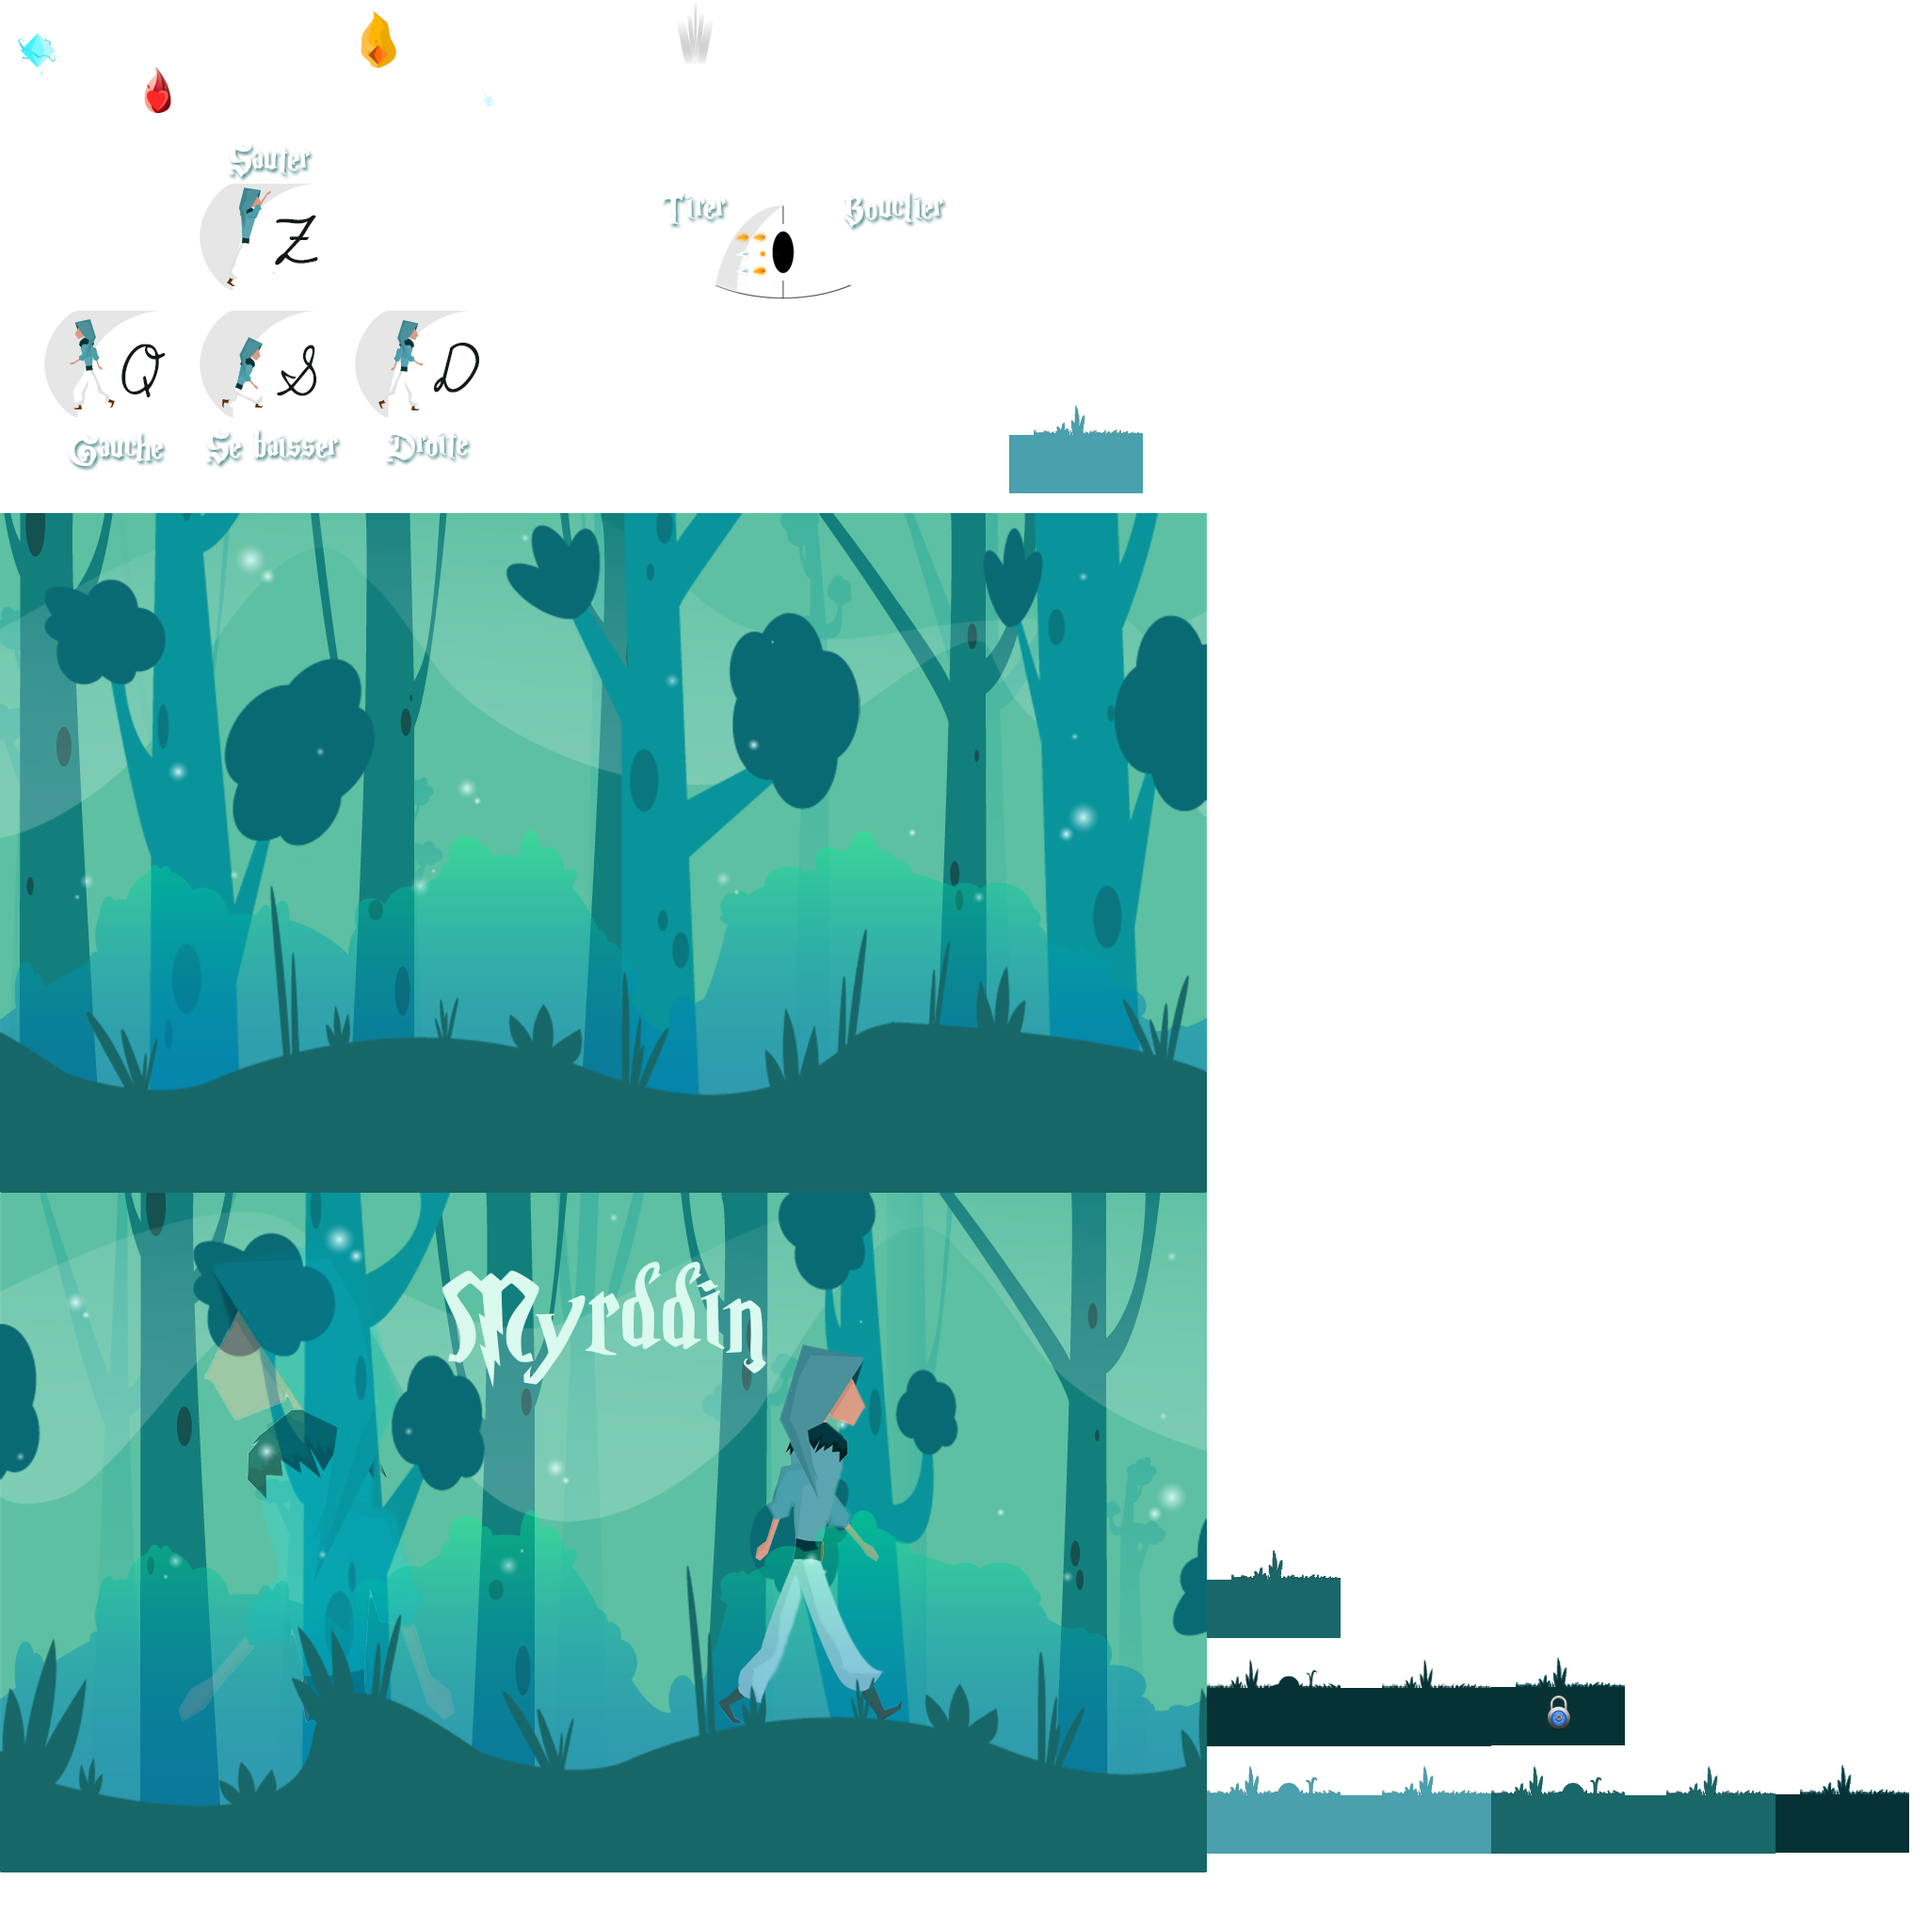
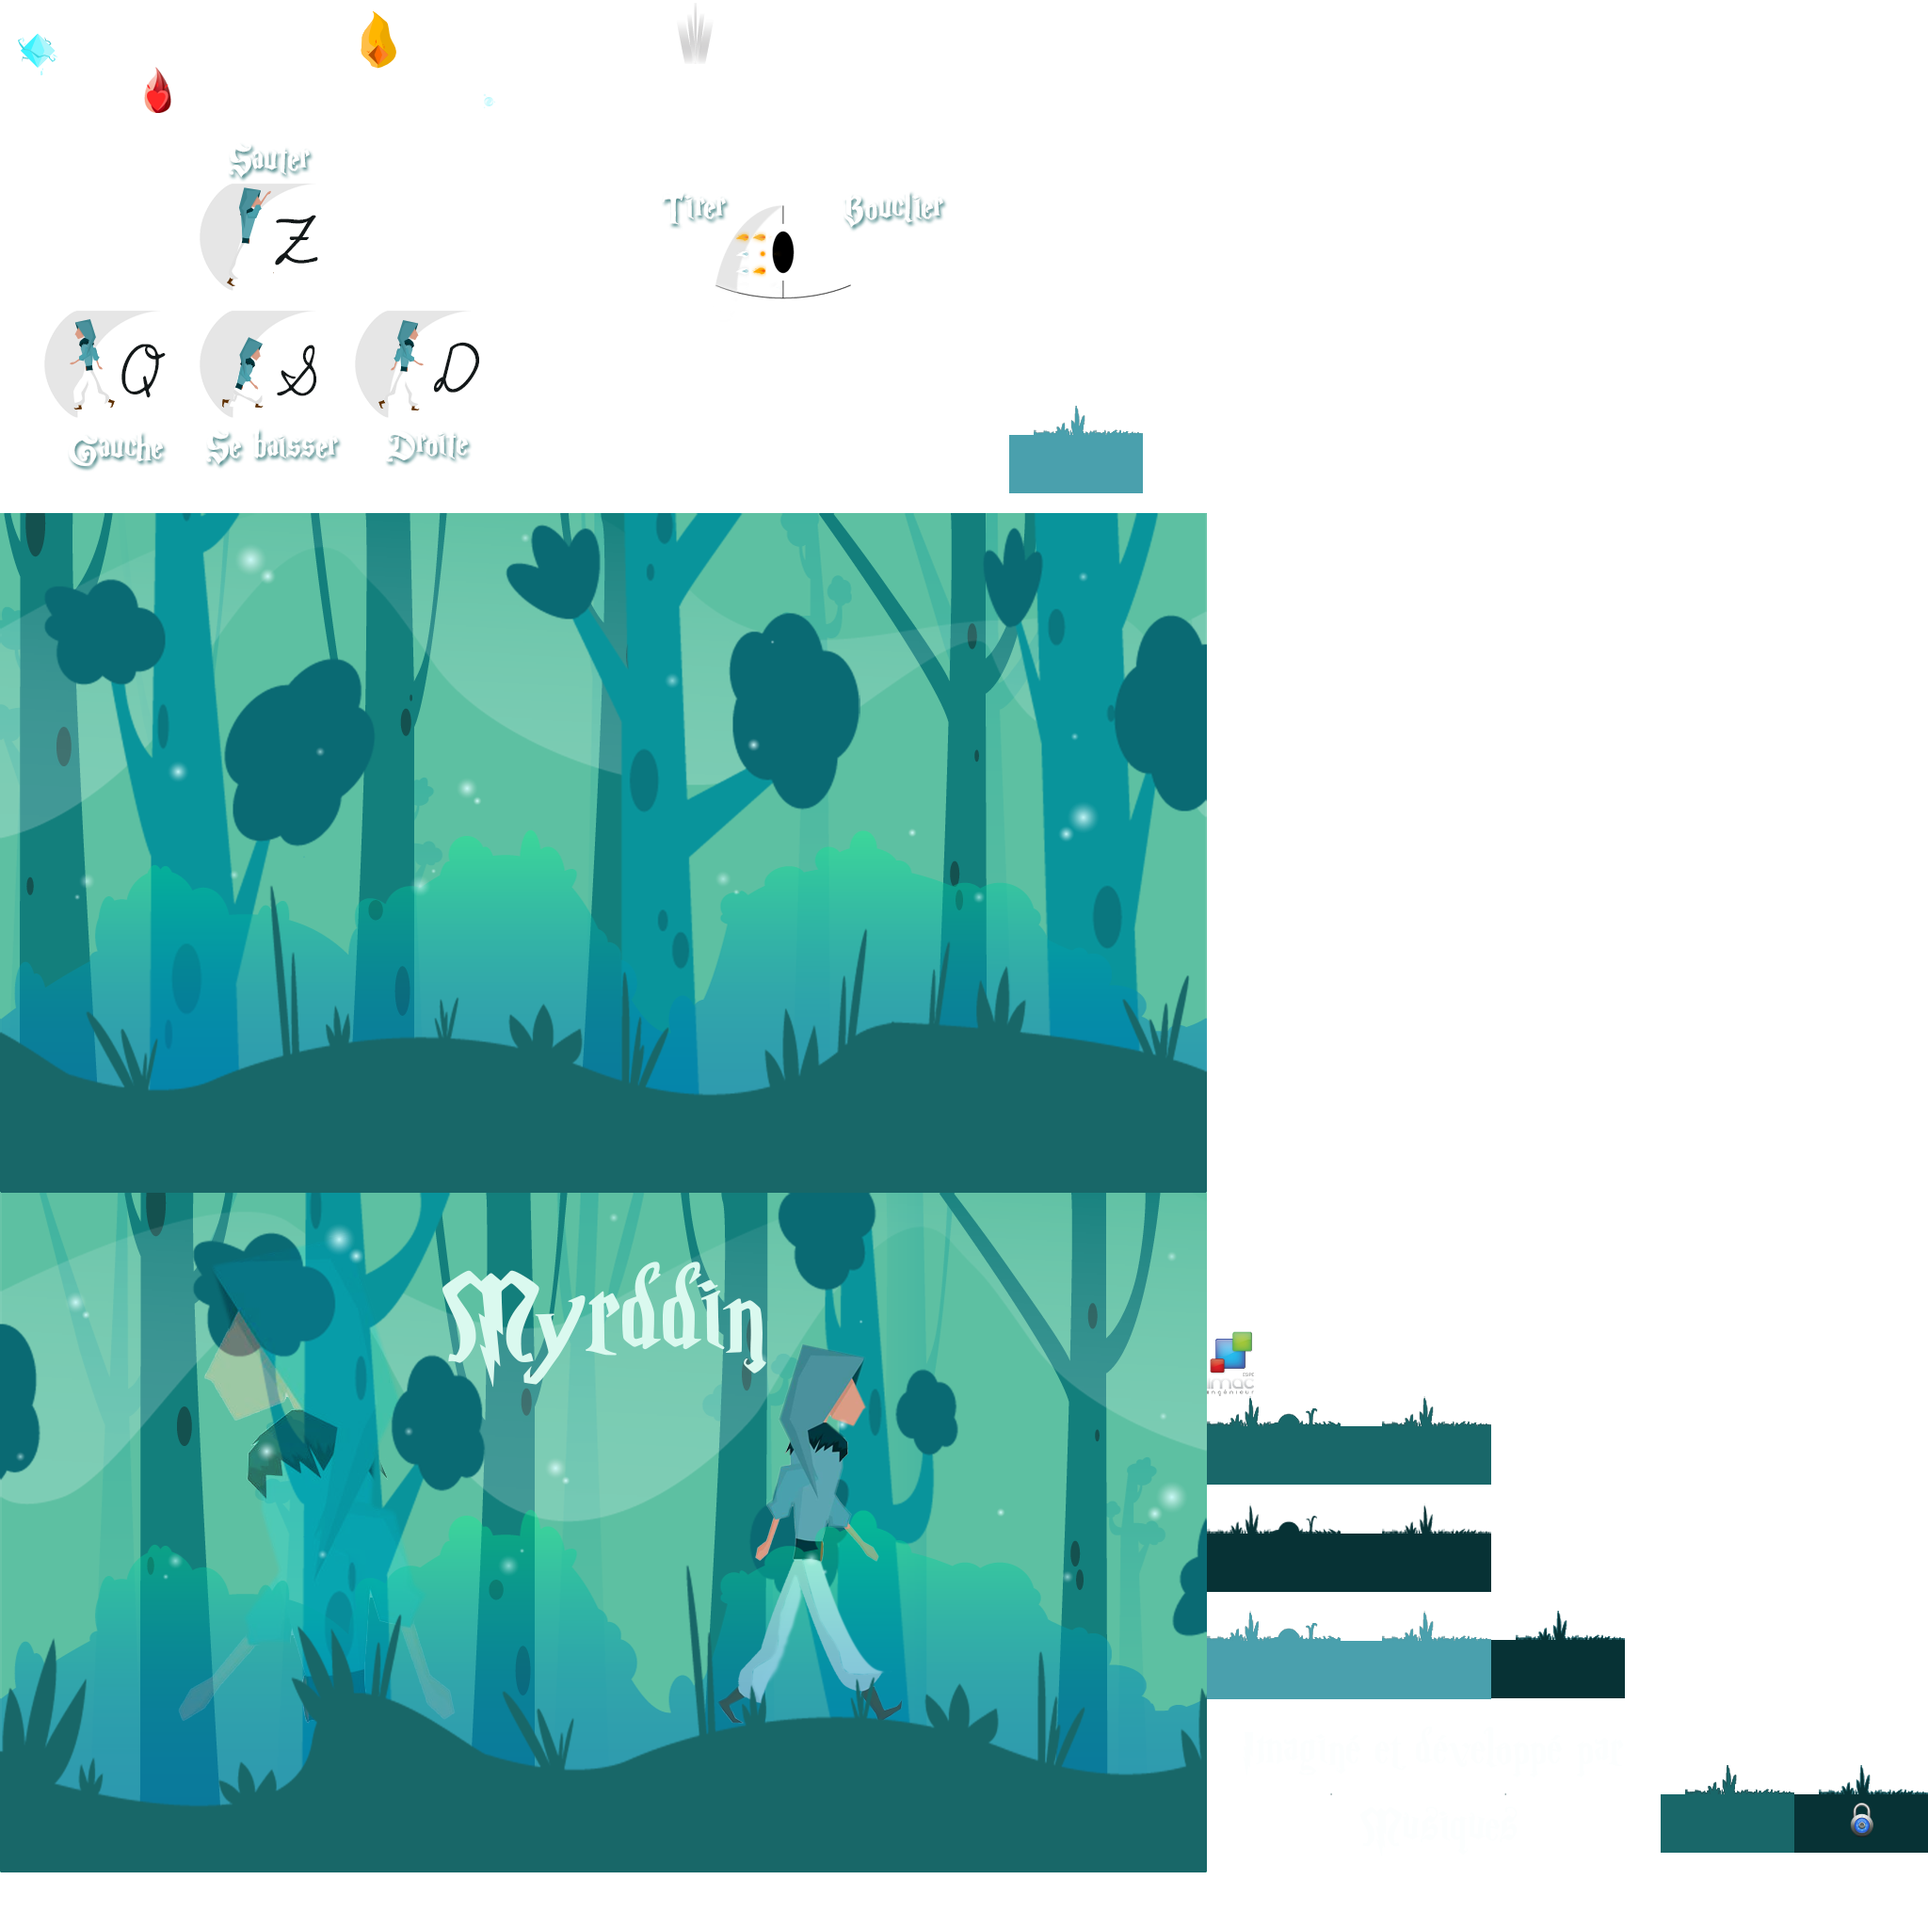
credits menu

Changed region(s): [[0.625, 0.6875, 1.0, 0.9688]]

diff --git a/core/src/fr/imac/myrddin/menu/MenuScreen.java b/core/src/fr/imac/myrddin/menu/MenuScreen.java
@@ -119,7 +119,7 @@ public class MenuScreen extends Stage implements Screen {
 			
 			@Override
 			public void changed(ChangeEvent event, Actor actor) {
-				initHowToPlayMenu();
+				initCreditsMenu();
 				
 			}
 		});
@@ -218,7 +218,7 @@ public class MenuScreen extends Stage implements Screen {
 		table.add(textButtonReturn).padTop(20).colspan(6);
 	}
 	
-	//screen to choose a level
+	//screen to know how to play
 		private void initHowToPlayMenu() {
 			//clear screen
 			table.reset();
@@ -252,6 +252,70 @@ public class MenuScreen extends Stage implements Screen {
 			AtlasRegion powersImage = atlasMenu.findRegion("powers_exp");
 			Image powers = new Image(powersImage);
 			table.add(powers).padTop(20);
+		}
+		
+		//screen for credits
+		private void initCreditsMenu() {
+			//clear screen
+			table.reset();
+			
+			//do debug
+			//table.setDebug(true);
+				
+			//background image
+			AtlasRegion backgroundMenuLevel = atlasMenu.findRegion("menu3");
+			table.background(new TextureRegionDrawable(backgroundMenuLevel));
+			
+			//add developped by button
+			AtlasRegion developpedByImage = atlasMenu.findRegion("developpedby");
+			Image developpedBy = new Image(developpedByImage);
+			table.add(developpedBy).padTop(20);
+			
+			//add musics button
+			AtlasRegion musicsImage = atlasMenu.findRegion("musiques");
+			Image musics = new Image(musicsImage);
+			table.add(musics).padTop(20);
+			table.row();
+			
+			TextButton textButtonMarie = new TextButton("Marie Benoist", this.mainTextButtonStyle);
+			table.add(textButtonMarie).padTop(-15);
+			TextButton textButtonNewSkies = new TextButton("New Skies", this.mainTextButtonStyle);
+			table.add(textButtonNewSkies).padTop(-15);
+			table.row();
+			
+			TextButton textButtonMaximeE = new TextButton("Maxime Engel", this.mainTextButtonStyle);
+			table.add(textButtonMaximeE).padTop(-15);
+			TextButton textButtonMoveForth = new TextButton("et Move Forth", this.mainTextButtonStyle);
+			table.add(textButtonMoveForth).padTop(-15);
+			table.row();
+			
+			TextButton textButtonLisa = new TextButton("Lisa Françoise", this.mainTextButtonStyle);
+			table.add(textButtonLisa).padTop(-15);
+			TextButton textButtonTheSecession = new TextButton("de The Secession", this.mainTextButtonStyle);
+			table.add(textButtonTheSecession).padTop(-15);
+			table.row();
+			
+			TextButton textButtonMaximeG = new TextButton("Maxime Gilbert", this.mainTextButtonStyle);
+			table.add(textButtonMaximeG).padTop(-15);
+			table.row();
+			
+			//add return button
+			TextButton textButtonReturn = new TextButton("Retour au menu", this.mainTextButtonStyle);
+			textButtonReturn.addListener(new ChangeListener() {
+								
+				@Override
+				public void changed(ChangeEvent event, Actor actor) {
+					initMainMenu();
+								
+				}
+			});
+			table.add(textButtonReturn).padTop(20).colspan(2);
+			table.row();
+			
+			//IMAC image
+			AtlasRegion imacImage = atlasMenu.findRegion("imac");
+			Image imac = new Image(imacImage);
+			table.add(imac).padTop(-50).padLeft(1000).colspan(2);
 		}
 	
 	//count number of files in a repertory
